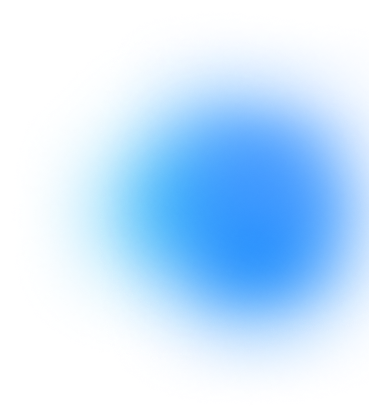
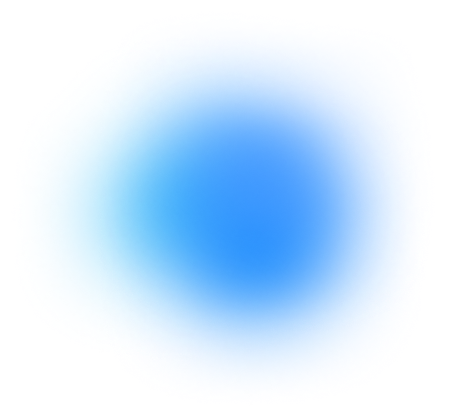
second-tab
little bit of styling done here

diff --git a/app/(tabs)/two.tsx b/app/(tabs)/two.tsx
@@ -2,9 +2,9 @@
 // When Tab One calls router.push({ params: { id: item.id } }), we catch it here
 import { useLocalSearchParams } from 'expo-router';
 import React, { useEffect, useState } from 'react';
-import { ActivityIndicator, ScrollView, StyleSheet } from 'react-native';
+import { ActivityIndicator, Image, ScrollView, StyleSheet, View } from 'react-native';
 
-import { Text, View } from '@/components/Themed';
+import { Text } from '@/components/Themed';
 // REVIEW_URL points to review.php — our second endpoint
 import { REVIEW_URL } from '@/constants/config';
 
@@ -20,6 +20,14 @@ interface Review {
   'career after graduating': string;
   advice: string;
 }
+
+// Map each post id to its corresponding image
+const postImages: Record<number, any> = {
+  1: require('@/assets/images/Gradient-Blob.png'),
+  2: require('@/assets/images/Gradient-Blob-2.png'),
+  3: require('@/assets/images/Gradient-Blob-3.png'),
+  4: require('@/assets/images/Gradient-Blob-4.png'),
+};
 
 export default function TabTwoScreen() {
   // id comes from the item tapped on Tab One
@@ -46,7 +54,7 @@ export default function TabTwoScreen() {
         // This is the same as typing review.php?id=1 in a browser
         const response = await fetch(`${REVIEW_URL}?id=${id}`);
         const data: Review = await response.json();
-        console.log('API data:', data); // add this
+        console.log('API data:', data);
         // Store the parsed object directly — no stringify needed
         setReview(data);
       } catch (error) {
@@ -62,51 +70,74 @@ export default function TabTwoScreen() {
   if (loading) return <ActivityIndicator />;
 
   return (
-    // ScrollView lets the content scroll if it's longer than the screen
-    <ScrollView contentContainerStyle={styles.container}>
-      {/* If we have an id, show the review data, otherwise show fallback */}
-      {review ? (
-        <>
-          <Text style={styles.title}>{review.name}</Text>
-          <Text style={styles.label}>Year: <Text>{review.year}</Text></Text>
-          <Text style={styles.label}>Rating: <Text>{review.rating}/5</Text></Text>
-          <Text style={styles.label}>Overview</Text>
-          <Text>{review.overview}</Text>
-          <Text style={styles.label}>Favourite Part</Text>
-          <Text>{review['favourite part']}</Text>
-          <Text style={styles.label}>Biggest Challenge</Text>
-          <Text>{review.challenge}</Text>
-          <Text style={styles.label}>Is there anything you wish you knew before entering this program?</Text>
-          <Text>{review['wished you would have known']}</Text>
-          <Text style={styles.label}>What type of job are you hoping to pursue after graduation?</Text>
-          <Text>{review['career after graduating']}</Text>
-          <Text style={styles.label}>Advice for Future Students</Text>
-          <Text>{review.advice}</Text>
-        </>
-      ) : (
-        <Text style={styles.title}>Select an item from Tab One</Text>
-      )}
-    </ScrollView>
+    <View style={styles.wrapper}>
+      <ScrollView contentContainerStyle={styles.container}>
+
+        {/* Blob sits at the top behind the text */}
+        <Image
+          source={postImages[Number(id)]}
+          style={styles.postImage}
+        />
+
+        {review ? (
+          <>
+            <Text style={styles.title}>{review.name}</Text>
+            <Text style={styles.label}>Year: <Text>{review.year}</Text></Text>
+            <Text style={styles.label}>Rating: <Text>{review.rating}/5</Text></Text>
+            <Text style={styles.label}>Overview</Text>
+            <Text>{review.overview}</Text>
+            <Text style={styles.label}>Favourite Part</Text>
+            <Text>{review['favourite part']}</Text>
+            <Text style={styles.label}>Biggest Challenge</Text>
+            <Text>{review.challenge}</Text>
+            <Text style={styles.label}>Is there anything you wish you knew before entering this program?</Text>
+            <Text>{review['wished you would have known']}</Text>
+            <Text style={styles.label}>What type of job are you hoping to pursue after graduation?</Text>
+            <Text>{review['career after graduating']}</Text>
+            <Text style={styles.label}>Advice for Future Students</Text>
+            <Text>{review.advice}</Text>
+          </>
+        ) : (
+          <Text style={styles.title}>Select an item from Tab One</Text>
+        )}
+      </ScrollView>
+    </View>
   );
 }
 
 const styles = StyleSheet.create({
+  // outer wrapper holds the hero and scrollview stacked vertically
+  wrapper: {
+    flex: 1,
+    backgroundColor: '#F5F0E8',
+  },
   container: {
     padding: 20,
-    backgroundColor: '#ffffff',
+    paddingTop: 20,
+    backgroundColor: 'transparent',
     flexGrow: 1,
+  },
+  // blob is absolute so text flows on top of it
+  postImage: {
+    position: 'absolute',
+    top: -170,
+    left: -90,
+    width: '140%',
+    height: 400,
+    resizeMode: 'contain',
+    zIndex: 0,
   },
   title: {
     fontSize: 22,
     fontWeight: 'bold',
     marginBottom: 12,
+    zIndex: 1, // text sits above the blob
   },
-  // Label styles go here 
   label: {
     fontSize: 16,
     fontWeight: 'bold',
     marginTop: 12,
     marginBottom: 4,
-
+    zIndex: 1,
   },
 });
